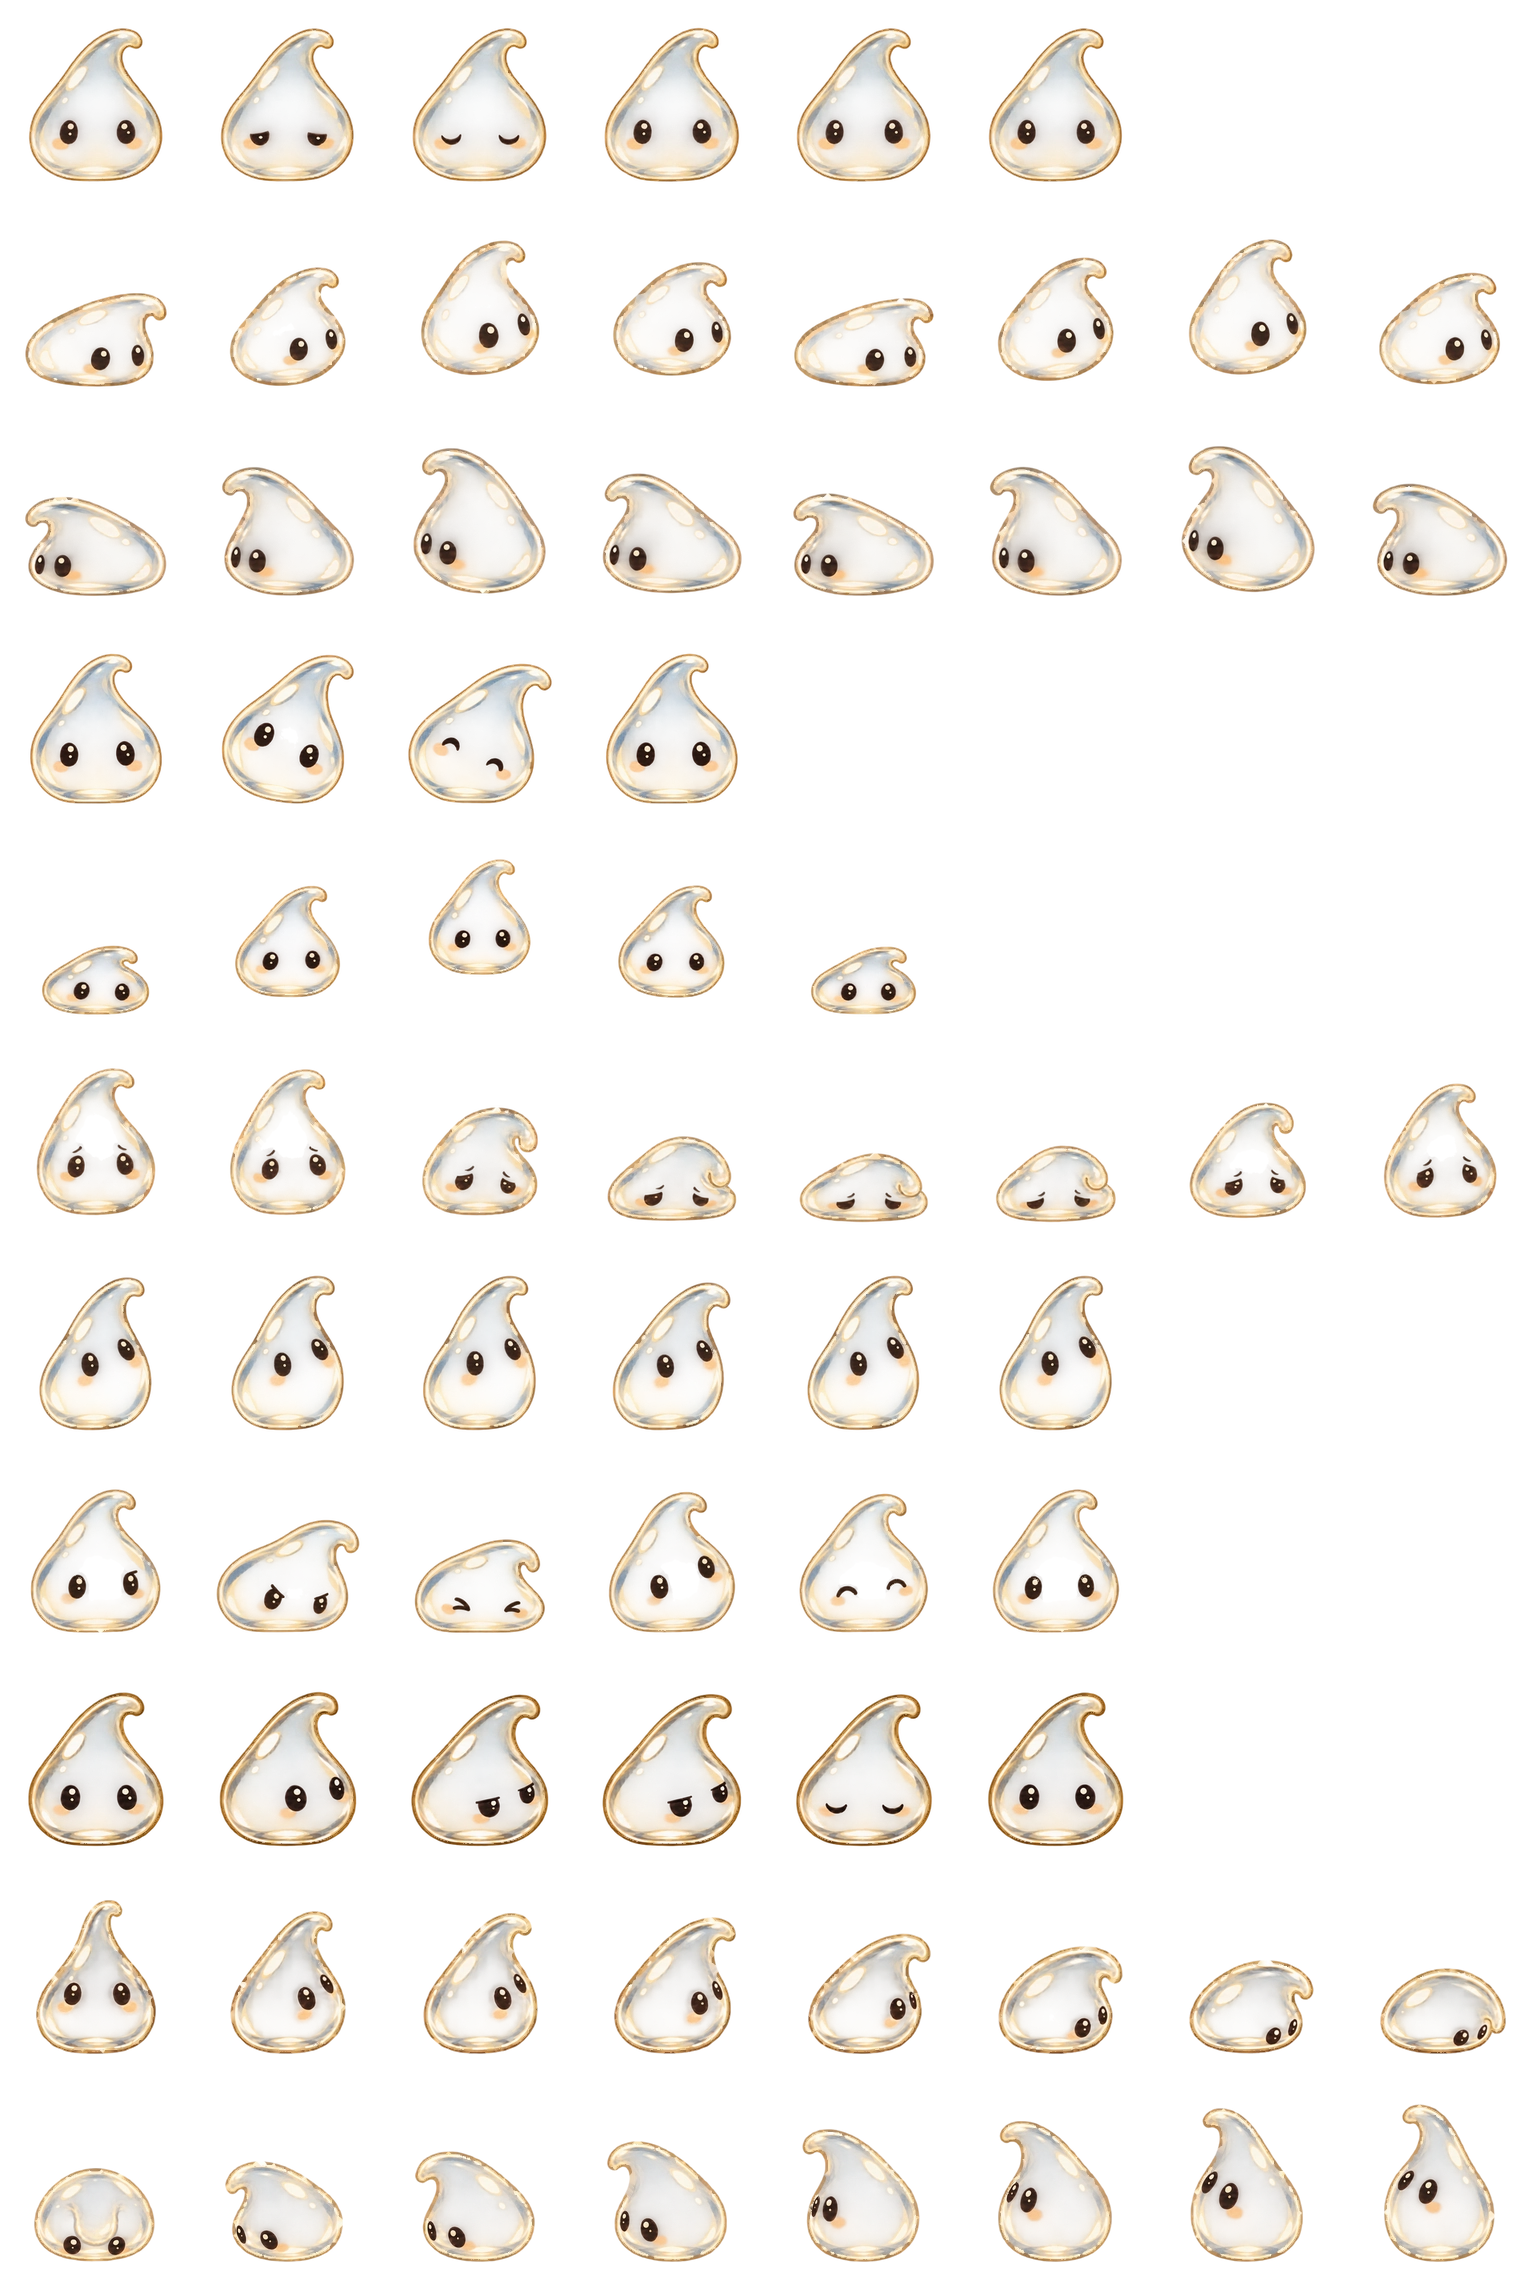
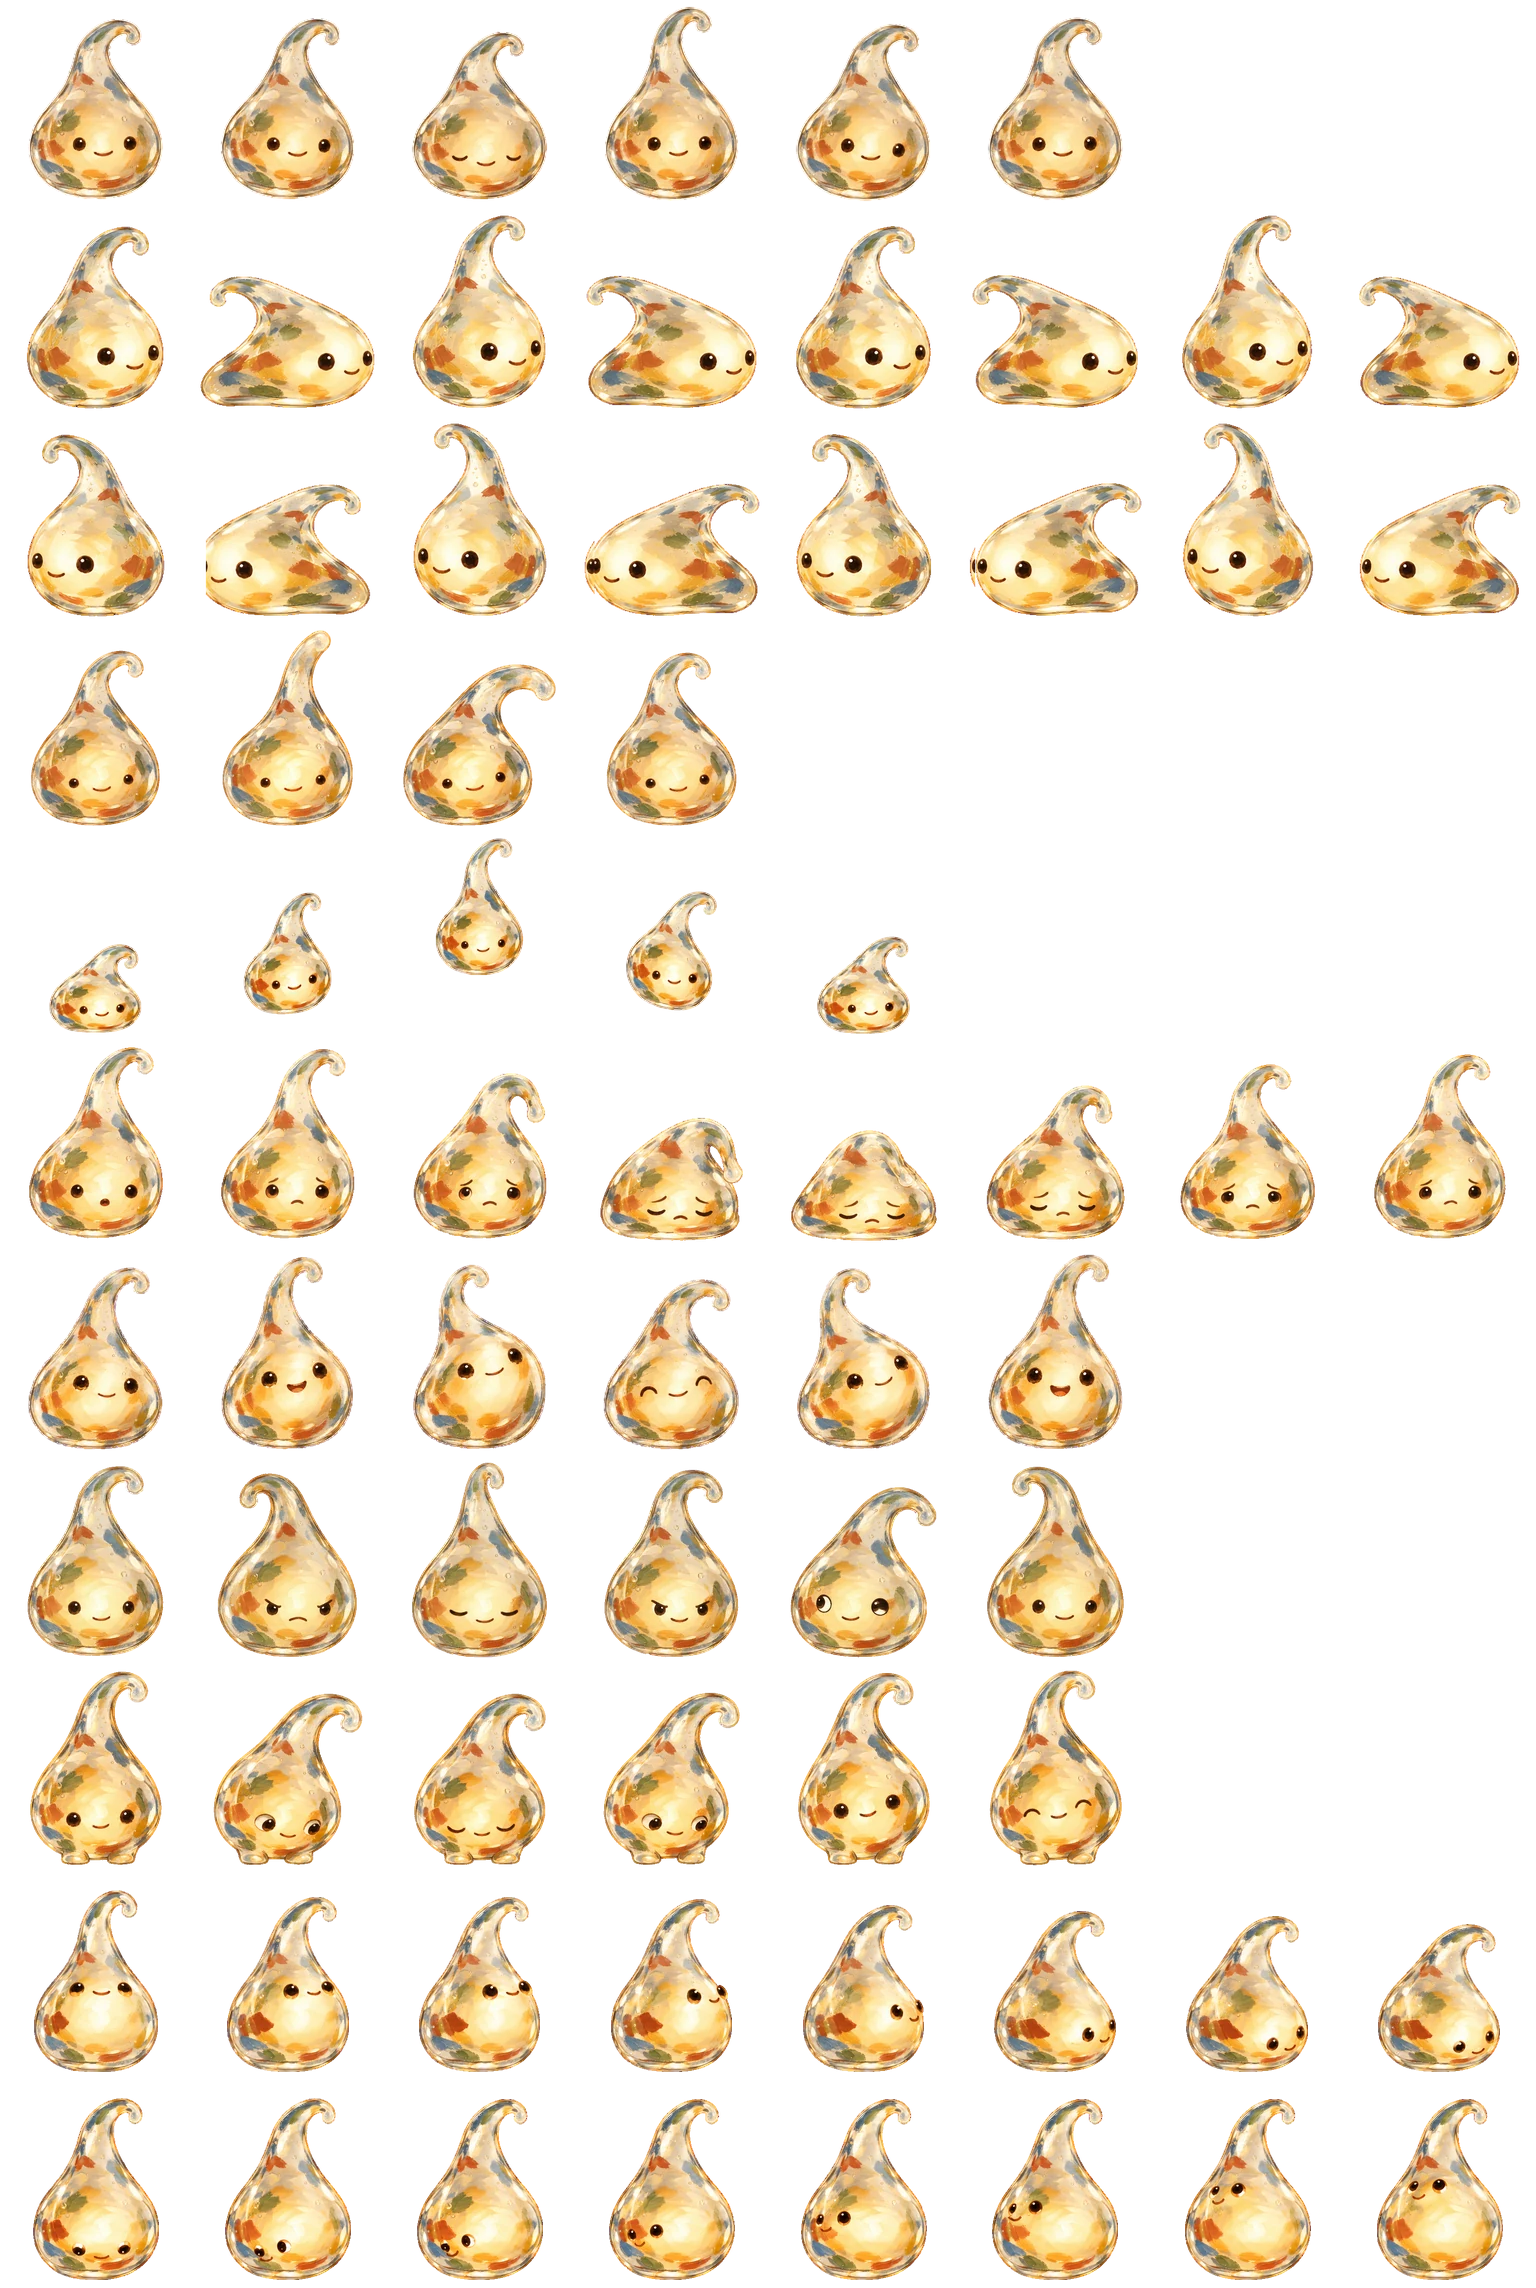
Pets: the Glassblower redrawn [skip ci]
Paul approved the redraw ("Both good"): a clear glass drop with a curling tip
and a warm light inside, from the still he picked in the redraw trial. Lossy
WebP q88, 600,066 bytes, alpha bit-identical; the 24 sheets total 19,657,940
bytes. pet-metrics.json and the making-of frames golden regenerated.

diff --git a/docs/marginarium-pets.md b/docs/marginarium-pets.md
@@ -173,10 +173,13 @@ waving cells at native size and 5x, on white and dark, showed no banding, halo o
[6 lines of base64/hex data omitted]
 
-The twenty-four sheets total **20,042,546 bytes (19.11 MiB)** of the 24 MiB budget. Dino's
-first sheet, in the table above, no longer ships. The new five fill more of their cells than the
+The Glassblower's redraw (Paul: "Both good") replaced the factory's droplet the same day: a
+clearer drop with a curling tip and a warm light inside. The twenty-four sheets total
+**19,657,940 bytes (18.75 MiB)** of the 24 MiB budget. Dino's and the Glassblower's first sheets,
+in the table above, no longer ship. The new ones fill more of their cells than the
 factory's nineteen (top 6 and foot 201 in `pet-metrics.json`, as the Baba Yaga's already did),
 so they stand a little larger beside them.
